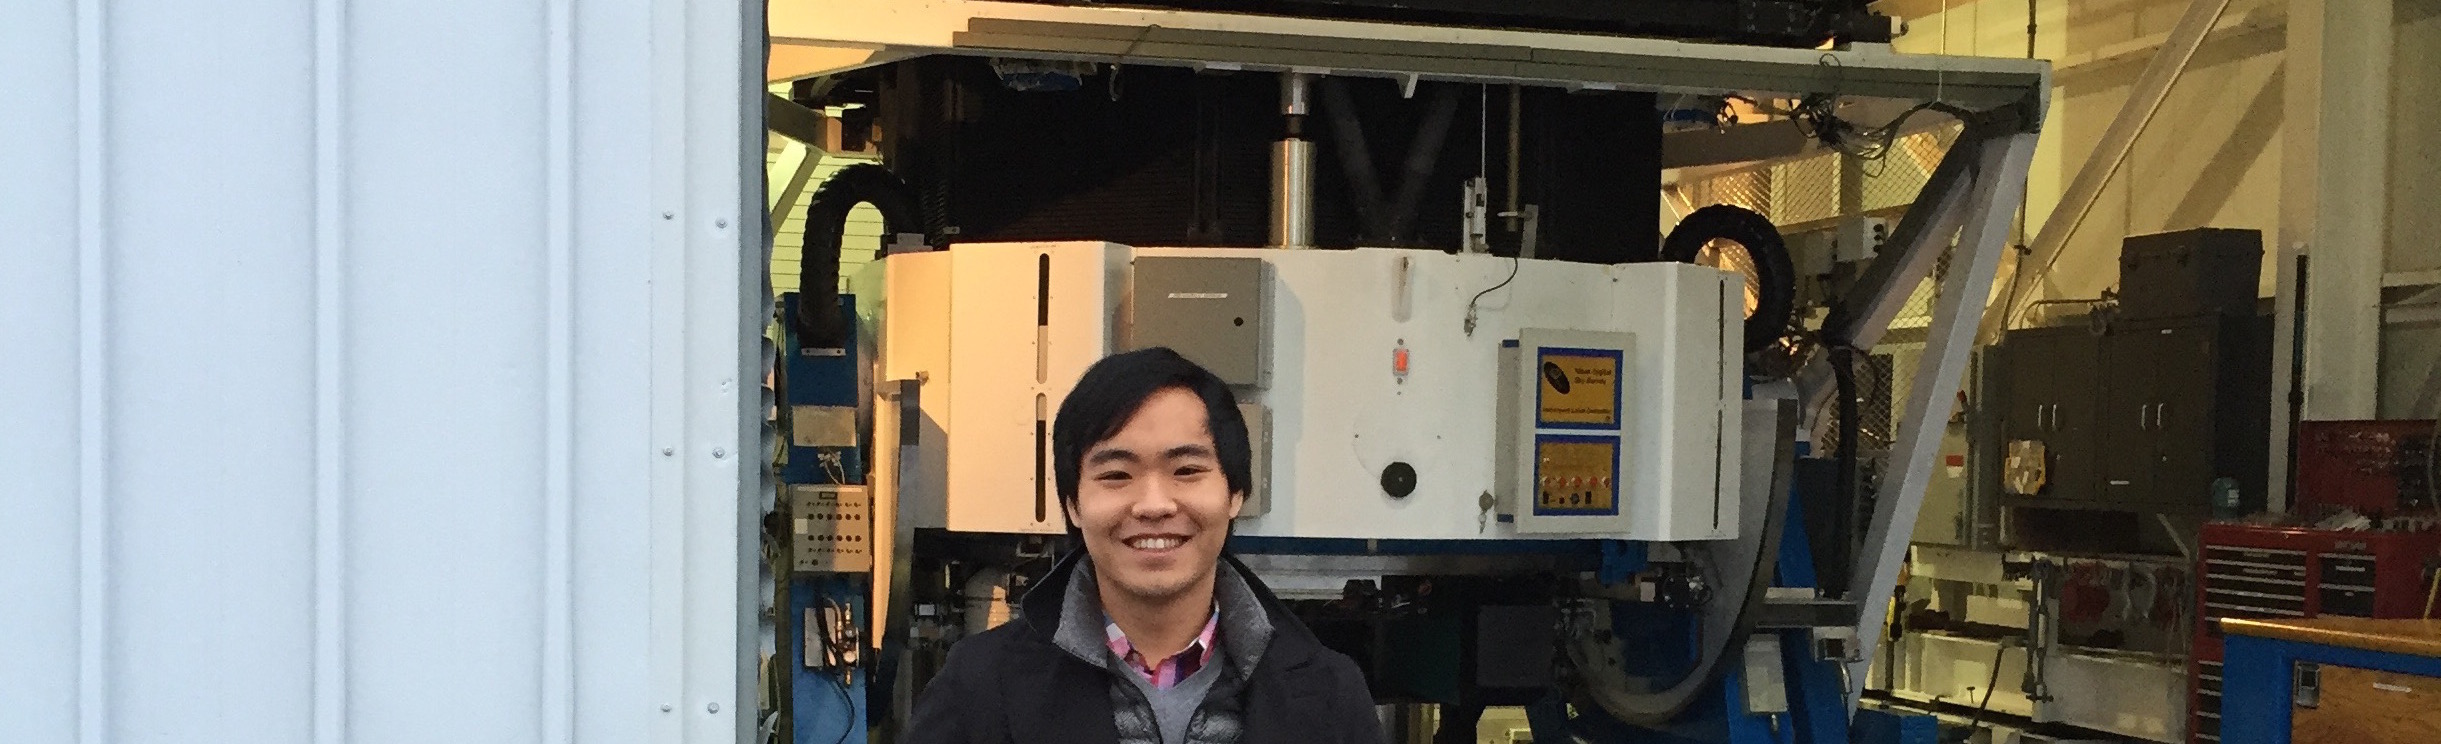
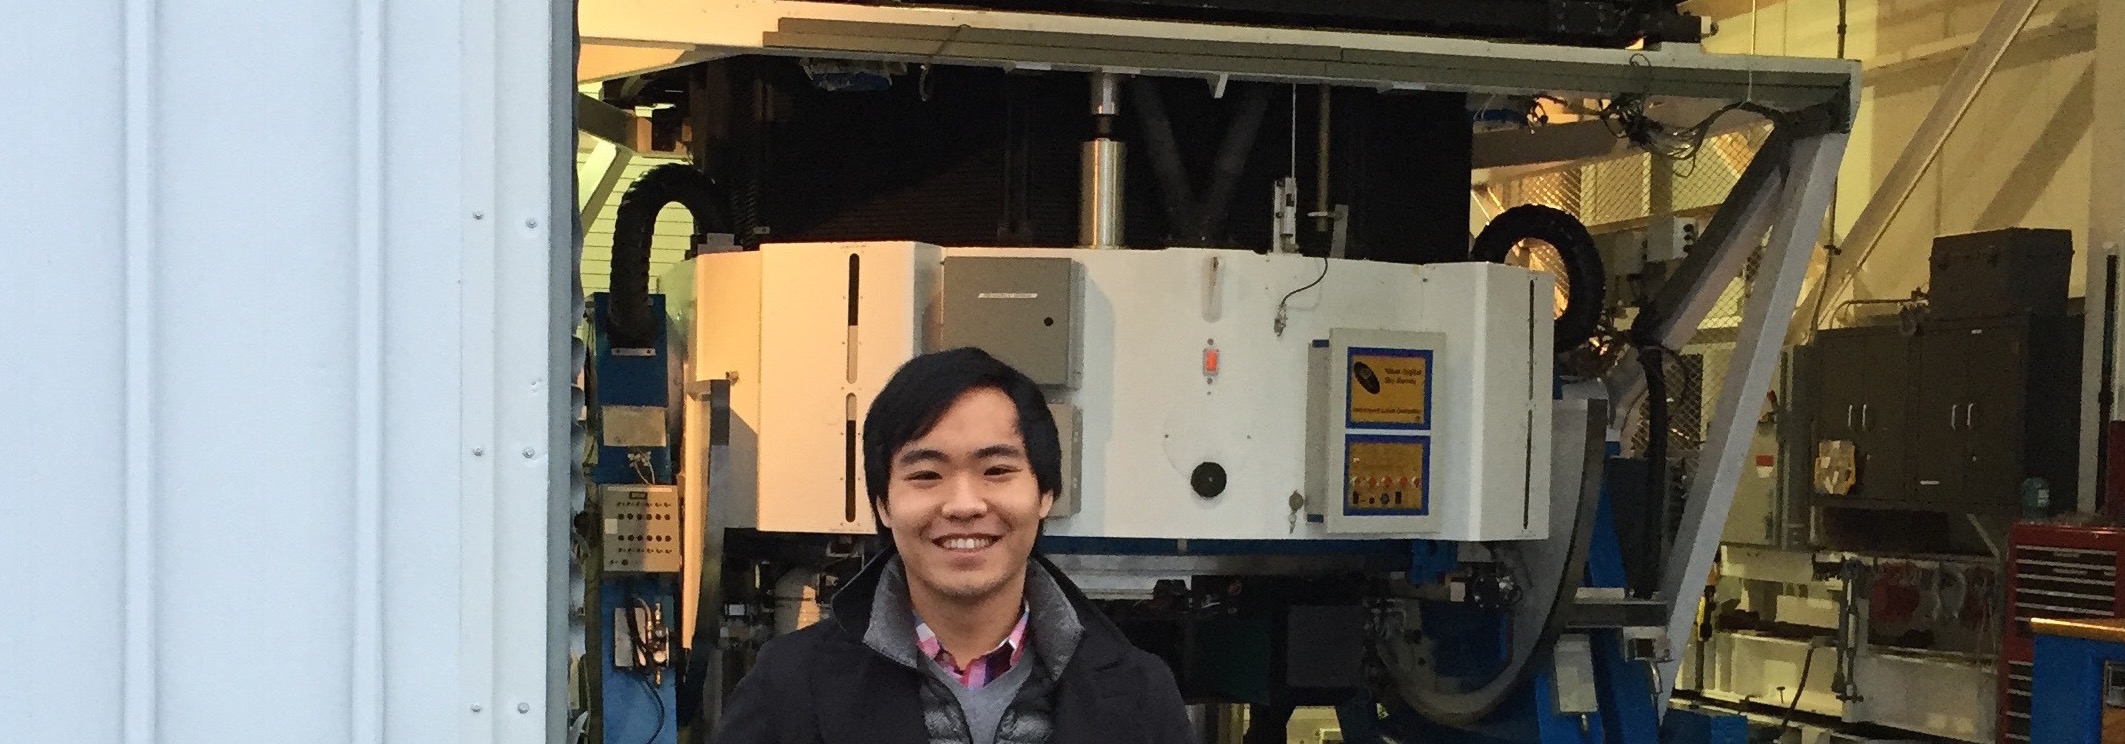
image sizes are frustrating

diff --git a/css/style.css b/css/style.css
@@ -1052,12 +1052,12 @@
 /* Banner */
 
 	#banner {
-		padding: 16em 0 15em 0;
+		padding: 250px 0 13em 0;
 		background-attachment: fixed;
                 background-repeat: no-repeat;
 		background-image: url("images/overlay.png"), url("../images/banner_old.jpg");
-		background-position: center top;
-		background-size: 120%;
+		background-position: top;
+		background-size: 1600px;
 		line-height: 1.75;
 		text-align: center;
 	}
@@ -1086,12 +1086,12 @@
 	}
 
 	#banner2 {
-		padding: 16em 0 15em 0;
-		background-attachment: scroll;
+		padding: 250px 0 13em 0;
+		background-attachment: fixed;
                 background-repeat: no-repeat;
 		background-image: url("images/overlay.png"), url("../images/pic01.jpg");
-		background-position: center top;
-		background-size: 100%;
+		background-position: top;
+		background-size: 1600px;
 		line-height: 1.75;
 		text-align: center;
 	}
@@ -1118,14 +1118,47 @@
 	body.is-touch #banner2 {
 		background-attachment: scroll;
 	}
+	#banner3 {
+		padding: 250px 0 13em 0;
+		background-attachment: fixed;
+                background-repeat: no-repeat;
+		background-image: url("images/overlay.png"), url("../images/banner_old.jpg");
+		background-position: top;
+		background-size: 1600px;
+		line-height: 1.75;
+		text-align: center;
+	}
+
+		#banner3 :last-child {
+			margin-bottom: 0;
+		}
+
+		#banner3 h2 {
+			color: #ffffff;
+			display: inline-block;
+			font-size: 3.5em;
+			line-height: 1.35;
+			margin-bottom: 0.5em;
+		}
+
+		#banner3 p {
+			color: #aaa;
+			font-size: 1.5em;
+			margin-bottom: 1.75em;
+			text-transform: uppercase;
+		}
+
+	body.is-touch #banner3 {
+		background-attachment: scroll;
+	}
 	
         #bannerdata {
-		padding: 16em 0 15em 0;
-                background-repeat: no-repeat;
+		padding: 250px 0 13em 0;
 		background-attachment: fixed;
+                background-repeat: no-repeat;
 		background-image: url("images/overlay.png"), url("../images/IMG_0114.jpg");
-		background-position: center top;
-		background-size: 100%;
+		background-position: top;
+		background-size: 1600px;
 		line-height: 1.75;
 		text-align: center;
 	}
@@ -1154,12 +1187,12 @@
 	}
         
         #bannerpersonal {
-		padding: 16em 0 15em 0;
-                background-repeat: no-repeat;
+		padding: 250px 0 13em 0;
 		background-attachment: fixed;
+                background-repeat: no-repeat;
 		background-image: url("images/overlay.png"), url("../images/tree.jpg");
-		background-position: center top;
-		background-size: 100%;
+		background-position: top;
+		background-size: 1600px;
 		line-height: 1.75;
 		text-align: center;
 	}
@@ -1189,13 +1222,13 @@
         
         
         #bannerresearch {
-		padding: 16em 0 15em 0;
+		padding: 250px 0 13em 0;
+		background-attachment: fixed;
                 background-repeat: no-repeat;
-		background-attachment: scroll;
 		background-image: url("images/overlay.png"), url("../images/pic01.jpg");
-		background-position: center top;
-		background-size: 100%;
-		line-height: 1.;
+		background-position: top;
+		background-size: 1600px;
+		line-height: 1.75;
 		text-align: center;
 	}
 

diff --git a/index.html b/index.html
@@ -37,7 +37,7 @@ Released for free under the Creative Commons Attribution 3.0 license (templated.
         </header>
 
         <!-- Banner -->
-        <section id="banner">
+        <section id="banner3">
         <h2>ChangHoon Hahn</h2>
         </section>
 
